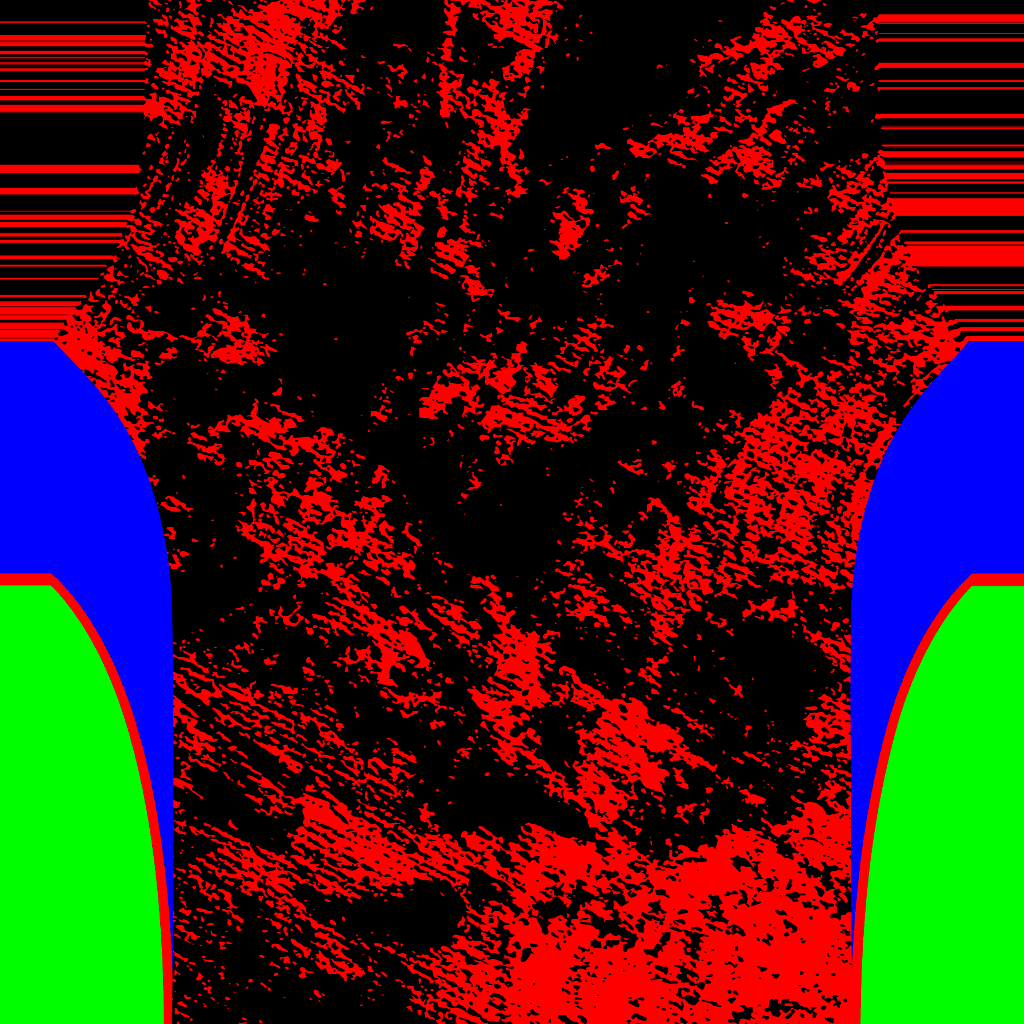
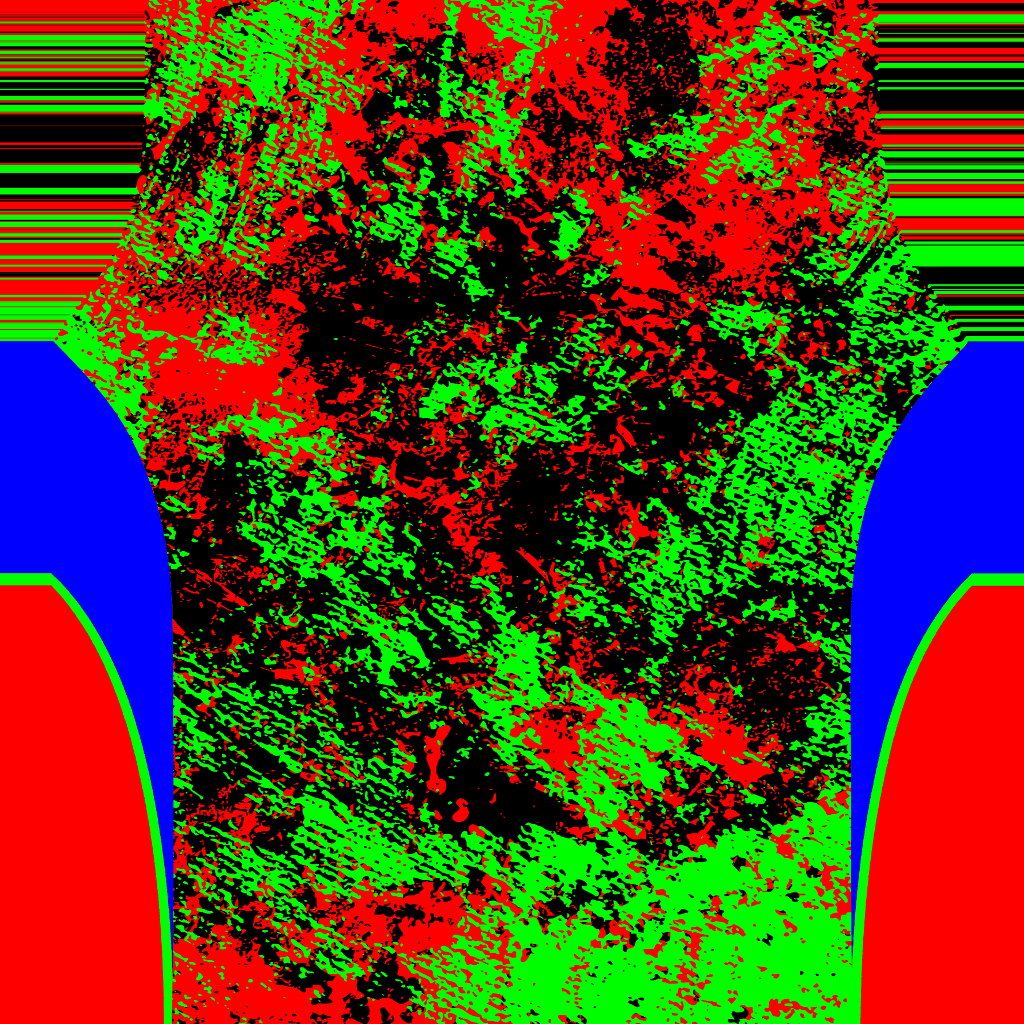
fix: Desgastado's front and sleeve show the dark of the PDF, as its back does
The base of a piece was taken from any fill over the whole piece, and Desgastado's mid-gray texture spans
its front and sleeve: taken for the base it filled its own holes and hid the dark gray under it. Only a
plain shape (few segments) counts as the base now. Only molde 19 changes; its colors are ordered by area
again, so "Color 2" is now its dark gray and "Color 3" its light gray.

diff --git a/scripts/moldes/extract_moldes.py b/scripts/moldes/extract_moldes.py
@@ -49,6 +49,8 @@ ISLAND_EDGE_ROWS = 3
 # little spikes in the stripes near the side seams.
 EDGE_SMOOTH_ROWS = 32
 THUMB_SIZE = 192
+# A fill drawn with more segments than this is a texture, never a piece's plain base (see Piece).
+MAX_BASE_ITEMS = 16
 # A color covering less than this share of the molde is an artifact.
 MIN_SHARE = 0.004
 BLACK = "#231f20"
@@ -185,8 +187,10 @@ class Piece:
             if near(x["rect"], r, 8) and x.get("fill"):
                 self.base = x["fill"]
         inner = pymupdf.Rect(r.x0 + 2, r.y0 + 2, r.x1 - 2, r.y1 - 2)
+        # A plain shape over the whole piece is its base too. Not a texture that happens to span it: molde 19's
+        # mid gray covers the front with holes, and taken for the base it filled them, hiding the dark under it.
         for chain, x in self.fills:
-            if x["type"] != "s" and not chain and x["rect"].contains(inner):
+            if x["type"] != "s" and not chain and x["rect"].contains(inner) and len(x["items"]) <= MAX_BASE_ITEMS:
                 self.base = x["fill"]
         self.cuff = None
 
